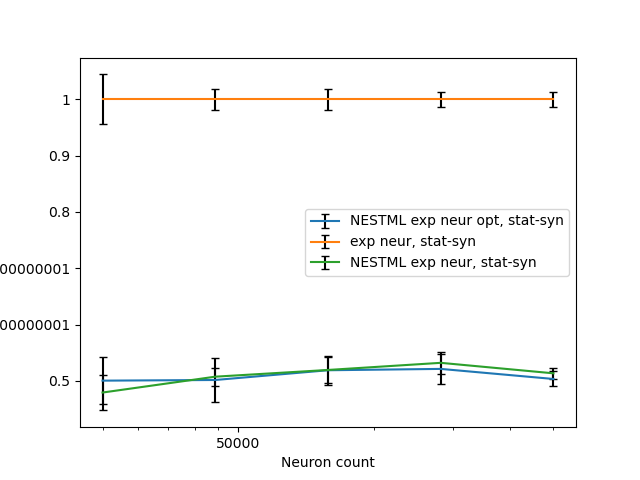
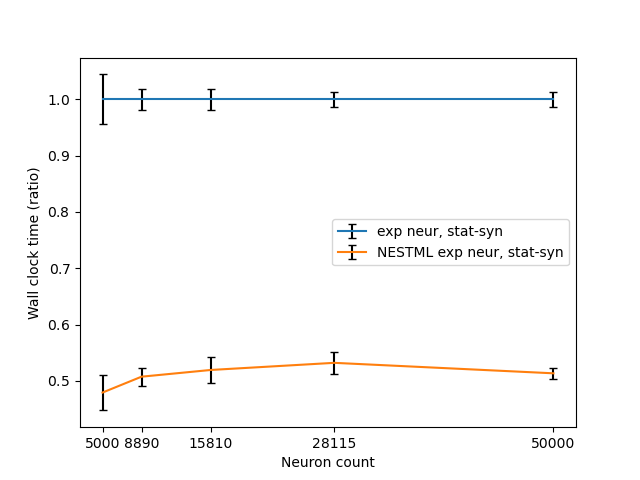
fix

diff --git a/Running/benchmark.py b/Running/benchmark.py
@@ -1,4 +1,5 @@
 import argparse
+import shutil
 import subprocess
 import sys
 import os
@@ -8,6 +9,7 @@ import math
 import matplotlib.pyplot as plt
 import numpy as np
 from matplotlib.ticker import FuncFormatter
+import matplotlib.ticker as ticker
 
 
 parser = argparse.ArgumentParser(description='Run a Benchmark with NEST')
@@ -77,6 +79,7 @@ NUMTHREADS = VERTICALTHREADS[-1]
 VERTICALNEWORKSCALE = min(NETWORKSCALES[-1],10000)
 ITERATIONS = 10  # XXXXXXXXXXXX: was 10
 DEBUG = False
+DONTSHOWOPT = True
 
 STRONGSCALINGFOLDERNAME = "timings_strong_scaling"
 WEAKSCALINGFOLDERNAME = "timings_weak_scaling"
@@ -170,7 +173,10 @@ def plot_weak_scaling(data, baseline,name, relative=False):
     neurons = []
     referenceValues = data[baseline]
     for neuron, values in data.items():
+        if "OPTIMIZED" in neuron.upper() and DONTSHOWOPT:
+            continue
         neurons.append(neuron)
+
         x = sorted(values.keys(), key=lambda k: int(k))
         # Real Time Factor
         reference_y = np.array([np.mean([iteration_data['time_simulate']/iteration_data["biological_time"] /
@@ -195,17 +201,22 @@ def plot_weak_scaling(data, baseline,name, relative=False):
     plt.ylabel(f'Wall clock time {"(ratio)" if relative else ""}')
 
     plt.xscale('log')
-
-    formatter = FuncFormatter(lambda y, _: '{:.16g}'.format(y))
-    plt.gca().yaxis.set_major_formatter(formatter)
-
+    #plt.yscale('log')
+    plt.xticks(x * NEURONSPERSCALE)
+    
     formatterX = FuncFormatter(
-        lambda x, _: '{:.16g}'.format(x * NEURONSPERSCALE))
+        lambda x, _: '{:.16g}'.format(x))
     plt.gca().xaxis.set_major_formatter(formatterX)
+
+    formatterY = ticker.ScalarFormatter(useMathText=True)
+    formatterY.set_scientific(True)
+    formatterY.set_powerlimits((-2, 2))
+    plt.gca().yaxis.set_major_formatter(formatterY)
 
     plt.legend([legend[neuron] for neuron in neurons])
     path = ("relative_" if relative else "") + "weak_scaling.png"
     plt.savefig(os.path.join(output_folder, f"{name}/{path}"))
+    plt.close()
 
 def plot_timedist(data, baseline, name):
     for neuron, scales in data.items():
@@ -246,6 +257,7 @@ def plot_timedist(data, baseline, name):
         plt.legend()
         plt.savefig(os.path.join(output_folder,
                     f'{name}/output_{neuron}.png'))
+        plt.close()
 
 def plot_Custom(data, baseline,name, relative=False):
     neuron = next(iter(data))
@@ -286,12 +298,14 @@ def plot_Custom(data, baseline,name, relative=False):
         plt.legend(legend[neuron] for neuron in neurons)
         path = ("relative_" if relative else "") + "output_" + stopwatch + ".png"
         plt.savefig(os.path.join(output_folder, f"{name}/{path}"))
-
+        plt.close()
 def plot_strong_scaling(data, baseline,name, relative=False):
     plt.figure()
     neurons = []
     referenceValues = data[baseline]
     for neuron, values in data.items():
+        if "OPTIMIZED" in neuron.upper() and DONTSHOWOPT:
+            continue
         neurons.append(neuron)
         x = sorted(values.keys(), key=lambda k: int(k))
         # Real Time Factor
@@ -313,9 +327,15 @@ def plot_strong_scaling(data, baseline,name, relative=False):
 
     plt.xscale('log')
 
+    formatterY = ticker.ScalarFormatter(useMathText=True)
+    formatterY.set_scientific(True)
+    formatterY.set_powerlimits((-2, 2))
+    plt.gca().yaxis.set_major_formatter(formatterY)
+
     plt.legend()
     path = ("relative_" if relative else "") + "strong_scaling.png"
     plt.savefig(os.path.join(output_folder, f"{name}/{path}"))
+    plt.close()
 
 def format_bytes(x, _):
     units = ['B', 'KB', 'MB', 'GB', 'TB', 'PB', 'EB', 'ZB', 'YB']
@@ -357,6 +377,7 @@ def plotMemory(memoryData, baseline, name):
 
     plt.legend(memoryData.keys())
     plt.savefig(os.path.join(output_folder, f'{name}/output_memory.png'))
+    plt.close()
 
 def plot_firing_rate(data,name,baseline,relative=False):
     plt.figure()
@@ -388,6 +409,7 @@ def plot_firing_rate(data,name,baseline,relative=False):
     plt.legend()
     path = ("relative_" if relative else "") + "firing_rate.png"
     plt.savefig(os.path.join(output_folder, f"{name}/{path}"))
+    plt.close()
 
 def deleteDat():
     for filename in os.listdir("./"):
@@ -476,15 +498,17 @@ def runBenchmark(neurons, baseline, name):
     plot_strong_scaling(verticaldata,baseline=baseline, name=name)
     plot_strong_scaling(verticaldata,baseline=baseline,name=name,relative=True)
 
-
 if __name__ == "__main__":
     for filename in os.listdir("./"):
         if filename.startswith("std") and filename.endswith(".txt"):
             os.remove(os.path.join("./", filename))
     
-    try:
-        os.remove(os.path.join(output_folder, "log.txt"))
-    except FileNotFoundError:
-        pass
+
+    for filename in os.listdir(output_folder):
+        file_path = os.path.join(output_folder, filename)
+        if os.path.isfile(file_path):
+            os.remove(file_path)
+        elif os.path.isdir(file_path):
+            shutil.rmtree(file_path)
     for benchmark in BENCHMARKS:
         runBenchmark(benchmark["neurons"], benchmark["baseline"], benchmark["name"])

diff --git a/nest-simulator/models/iaf_psc_alpha.cpp b/nest-simulator/models/iaf_psc_alpha.cpp
@@ -307,7 +307,6 @@ iaf_psc_alpha::pre_run_hook()
 void
 iaf_psc_alpha::update( Time const& origin, const long from, const long to )
 {
-  sw_update.start();
   for ( long lag = from; lag < to; ++lag )
   {
     if ( S_.r_ == 0 )
@@ -371,7 +370,6 @@ iaf_psc_alpha::update( Time const& origin, const long from, const long to )
     // log state data
     B_.logger_.record_data( origin.get_steps() + lag );
   }
-  sw_update.stop();
 }
 
 void
